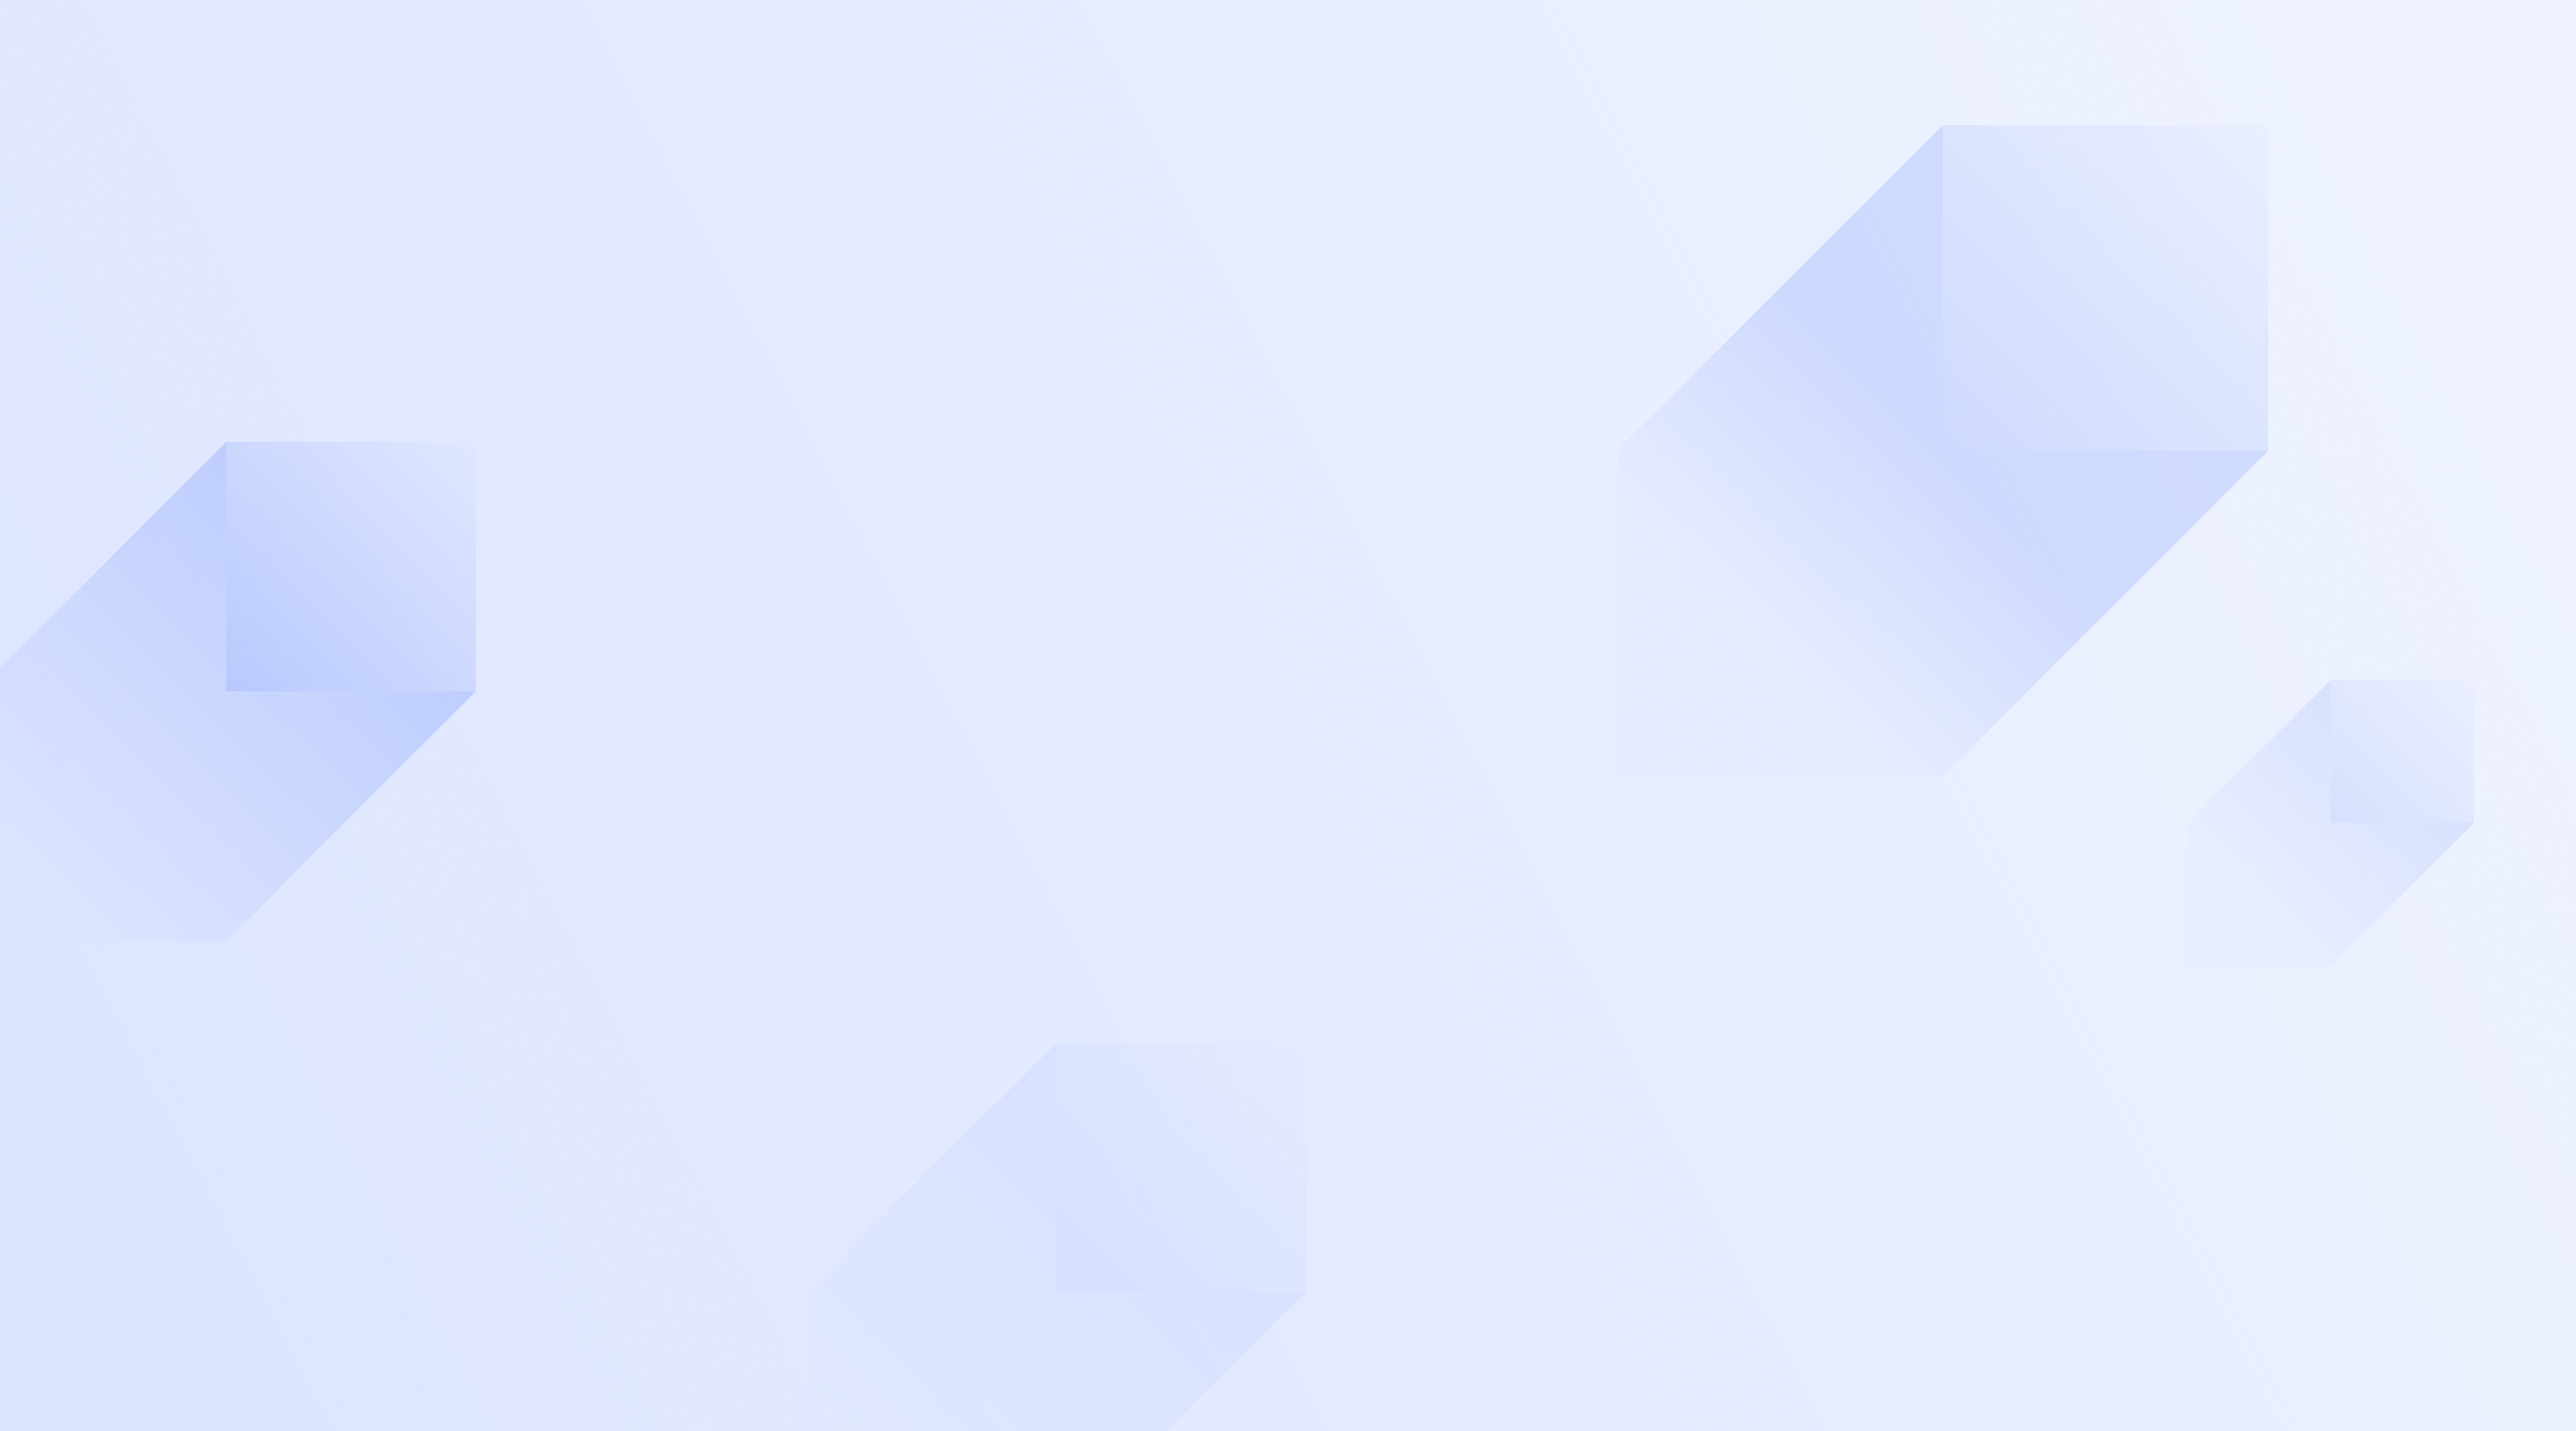
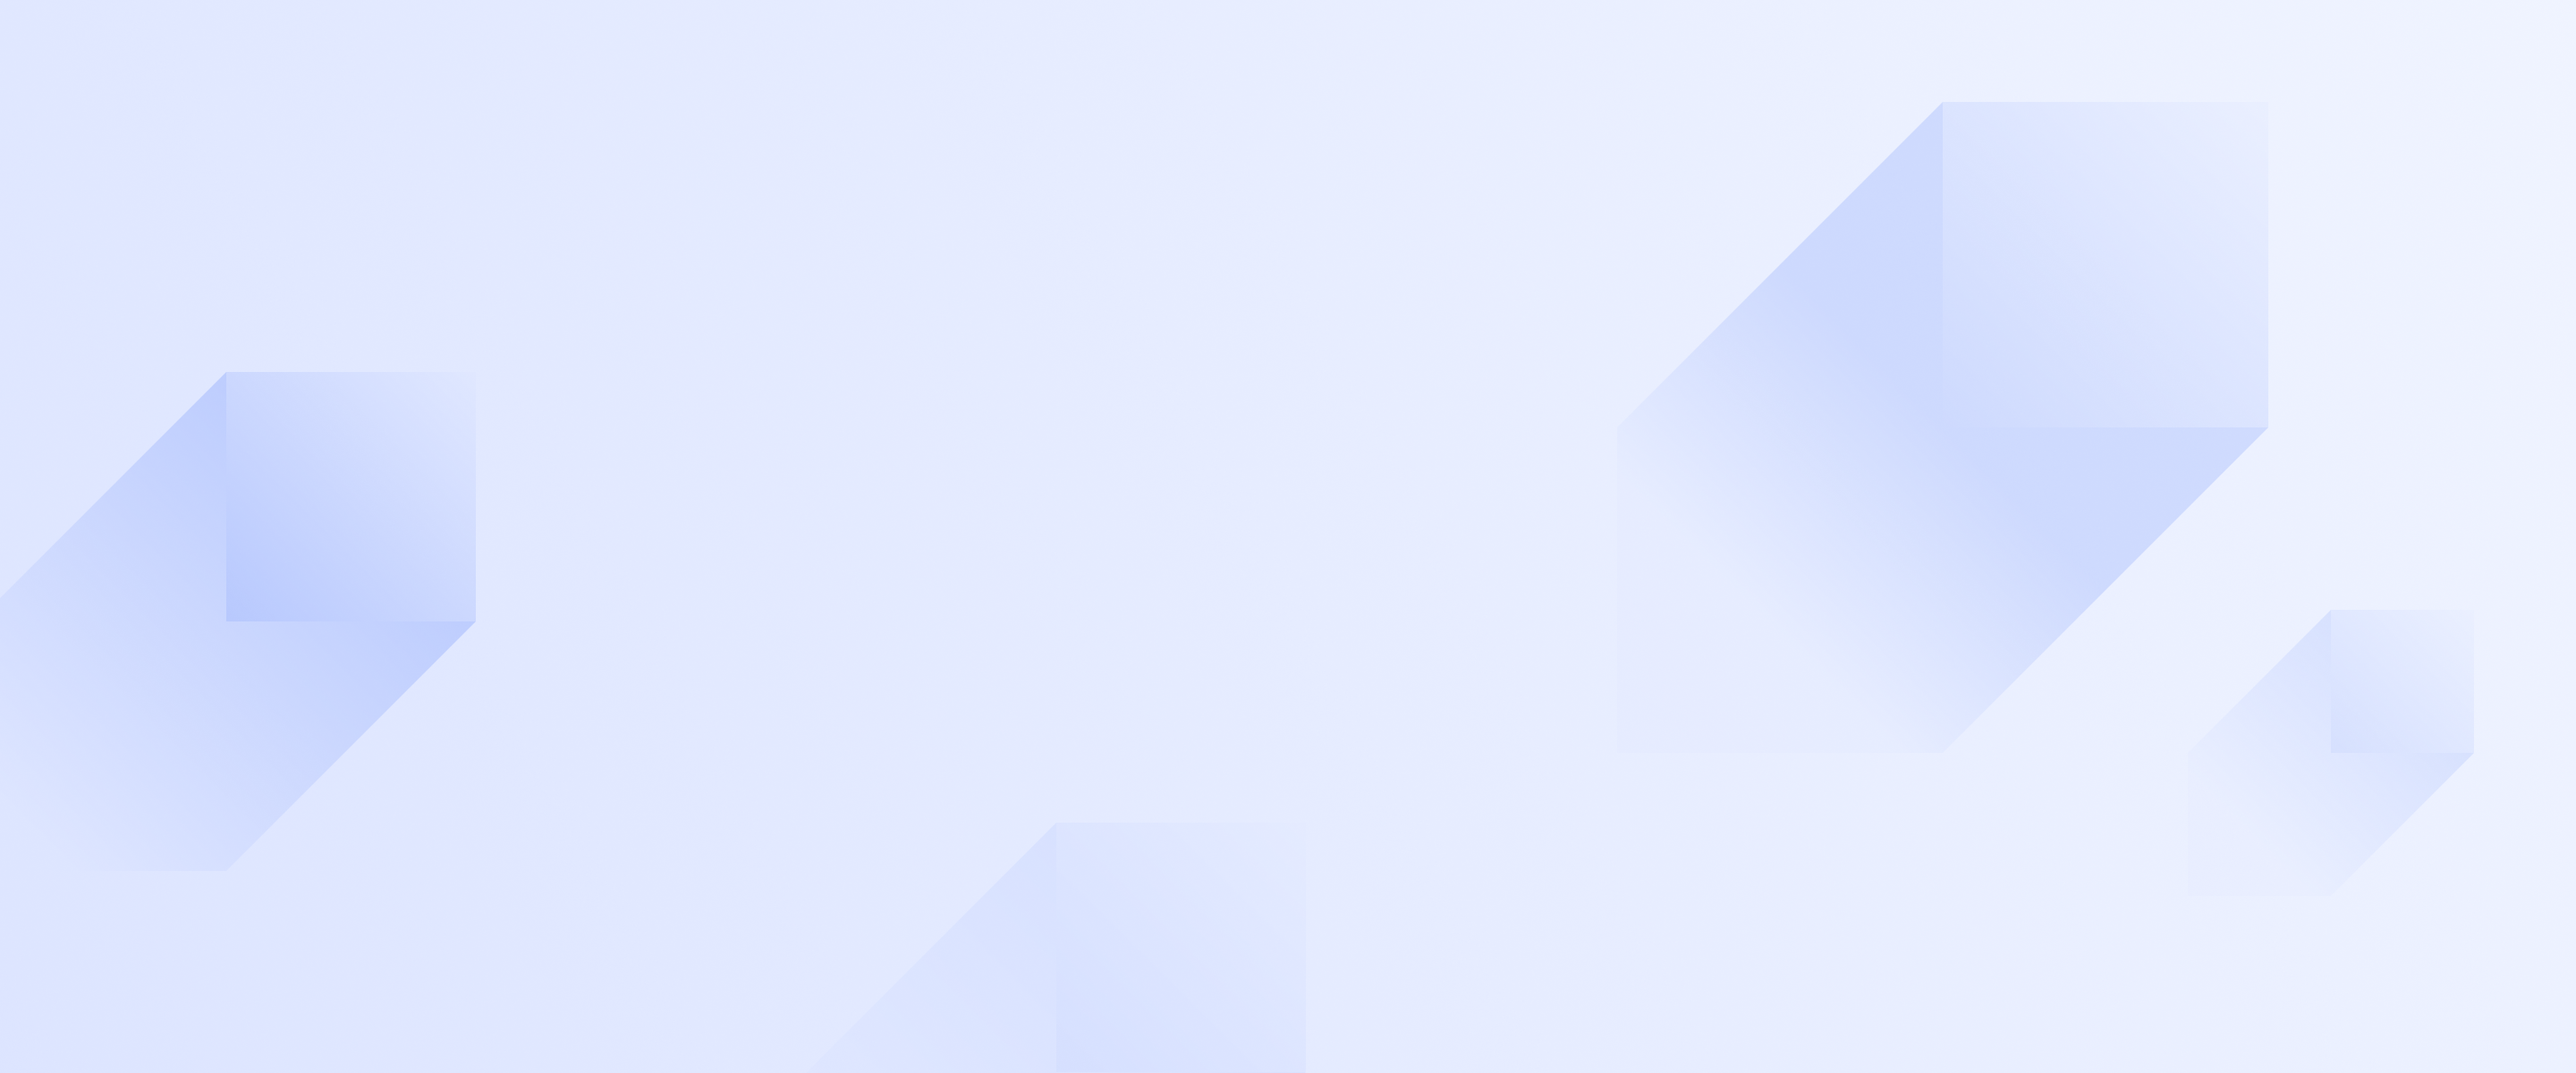
feat: 디자인 요청 사항 반영 (#90)

diff --git a/src/pages/company-detail/ui/company-recommendation-section.css.ts b/src/pages/company-detail/ui/company-recommendation-section.css.ts
@@ -1,34 +1,49 @@
 import { style } from "@vanilla-extract/css";
 
 import { themeVars } from "@/app/styles";
-import CompanyDetailImage from "@/shared/assets/images/company_detail.png";
+import { COMPANY_DETAIL } from "@/shared/assets/images";
 
 export const recommendSection = style({
+  display: "flex",
+  justifyContent: "center",
+  alignItems: "center",
   width: "100%",
-  minHeight: "80rem",
   marginTop: "20rem",
-  padding: "6rem 0",
-  position: "relative",
-  backgroundImage: `url(${CompanyDetailImage})`,
-  backgroundSize: "cover",
+  backgroundImage: `url(${COMPANY_DETAIL})`,
+
+  backgroundSize: "100% 100%",
   backgroundPosition: "center",
   backgroundRepeat: "no-repeat",
+
+  aspectRatio: "1440 / 600",
+
+  overflow: "hidden",
 });
 
 export const recommendInner = style({
+  display: "flex",
+  flexDirection: "column",
+  justifyContent: "center",
+  width: "100%",
   maxWidth: "112rem",
+  height: "100%",
   margin: "0 auto",
   padding: "0 2rem",
-  position: "relative",
 });
 
 export const recommendHeader = style({
-  marginTop: "16rem",
   display: "flex",
   justifyContent: "space-between",
-  alignItems: "flex-start",
+  alignItems: "flex-end",
   gap: "2rem",
-  position: "relative",
+});
+
+export const companyCardGrid = style({
+  marginTop: "4rem",
+  display: "grid",
+  gridTemplateColumns: "repeat(4, 25rem)",
+  justifyContent: "space-between",
+  gap: "2rem",
 });
 
 export const recommendTextGroup = style({
@@ -46,22 +61,7 @@ export const recommendDesc = style({
   ...themeVars.fontStyles.hline_m_18,
 });
 
-export const companyCardGrid = style({
-  marginTop: "6rem",
-  marginBottom: "22.3rem",
-  display: "grid",
-  gridTemplateColumns: "repeat(4, 25rem)",
-  justifyContent: "space-between",
-  gap: "2rem",
-});
-
 export const companyCardLink = style({
   display: "block",
   width: "100%",
-});
-
-export const refreshButtonArea = style({
-  position: "absolute",
-  right: "0",
-  bottom: "0",
 });

diff --git a/src/pages/matching-list/matching-list-page.tsx b/src/pages/matching-list/matching-list-page.tsx
@@ -1,4 +1,5 @@
 import { MatchingItem } from "@/features/matching-list/ui/matching-item";
+import { COMPANY_DETAIL } from "@/shared/assets/images";
 const MatchingListPage = () => {
   return (
     <main>
@@ -8,6 +9,11 @@ const MatchingListPage = () => {
         companyName="기업명"
         createdAt="2025-12-28"
         title="하나둘셋다하나둘셋넷다하나둘셋다하나둘셋넷다하나둘셋다하나둘셋넷다30자여도 무너지지 않습니다."
+      />
+      <img
+        src={COMPANY_DETAIL}
+        alt="Company Detail"
+        style={{ border: "1px solid red" }}
       />
     </main>
   );

diff --git a/src/pages/company-detail/ui/company-recommendation-section.tsx b/src/pages/company-detail/ui/company-recommendation-section.tsx
@@ -38,9 +38,7 @@ const CompanyRecommendationSection = ({
             </p>
           </div>
 
-          <div className={styles.refreshButtonArea}>
-            <RefreshButton />
-          </div>
+          <RefreshButton />
         </div>
 
         <div className={styles.companyCardGrid}>
@@ -50,7 +48,6 @@ const CompanyRecommendationSection = ({
               to={ROUTES.COMPANY(String(company.id))}
               className={styles.companyCardLink}
             >
-              {/* 임시 이미지 */}
               <CompanyCard {...company} logoUrl={KERORO} />
             </Link>
           ))}

diff --git a/src/pages/company-detail/ui/company-detail-section.tsx b/src/pages/company-detail/ui/company-detail-section.tsx
@@ -3,9 +3,11 @@ import {
   CompanyIssue,
   CompanyLinkButton,
 } from "@/features/company-detail";
-import IconIdeal from "@/shared/assets/icons/icon_ideal.png";
-import IconIssue from "@/shared/assets/icons/icon_issue.png";
-import IconSummary from "@/shared/assets/icons/icon_summary.png";
+import {
+  IconIdeal,
+  IconIssue,
+  IconSummary,
+} from "@/shared/assets/icons/index.ts";
 import { KERORO } from "@/shared/assets/images/index.ts";
 import { Tag, Textbox } from "@/shared/ui";
 

diff --git a/src/pages/company-detail/ui/company-detail-section.css.ts b/src/pages/company-detail/ui/company-detail-section.css.ts
@@ -110,12 +110,12 @@ export const sectionTitle = style({
 });
 
 export const summarySection = style({
-  marginTop: "10rem",
+  marginTop: "8rem",
   gap: "1.6rem",
 });
 
 export const talentSection = style({
-  marginTop: "9.5rem",
+  marginTop: "5.2rem",
   gap: "1.6rem",
 });
 
@@ -136,7 +136,6 @@ export const textboxContent = style({
 });
 
 export const summaryBox = style({
-  minHeight: "14.7rem",
   display: "flex",
   alignItems: "center",
 });

diff --git a/src/pages/company-detail/company-detail-page.css.ts b/src/pages/company-detail/company-detail-page.css.ts
@@ -8,9 +8,9 @@ export const page = style({
 });
 
 export const container = style({
-  maxWidth: "144rem",
-  margin: "0 auto",
-  padding: "4.8rem 2rem 0",
   display: "flex",
   flexDirection: "column",
+  maxWidth: "144rem",
+  margin: "0 auto",
+  padding: "8rem 2rem 0",
 });
